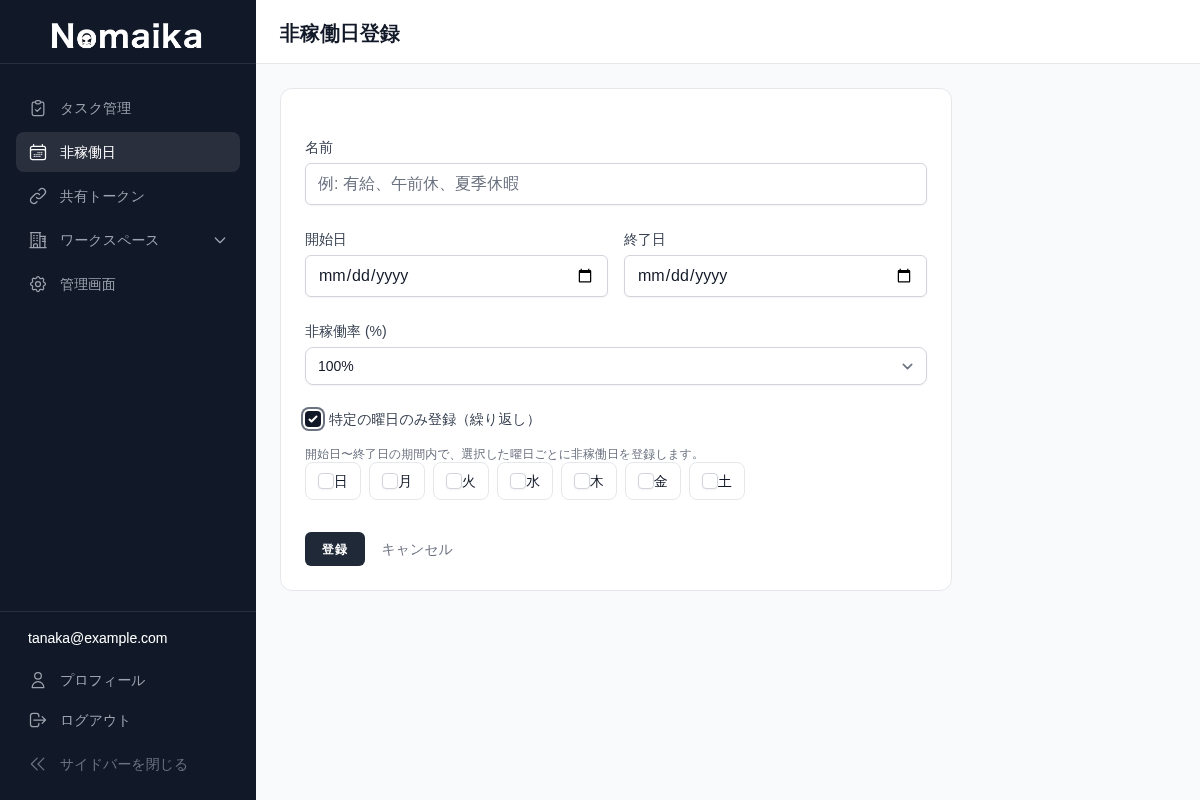
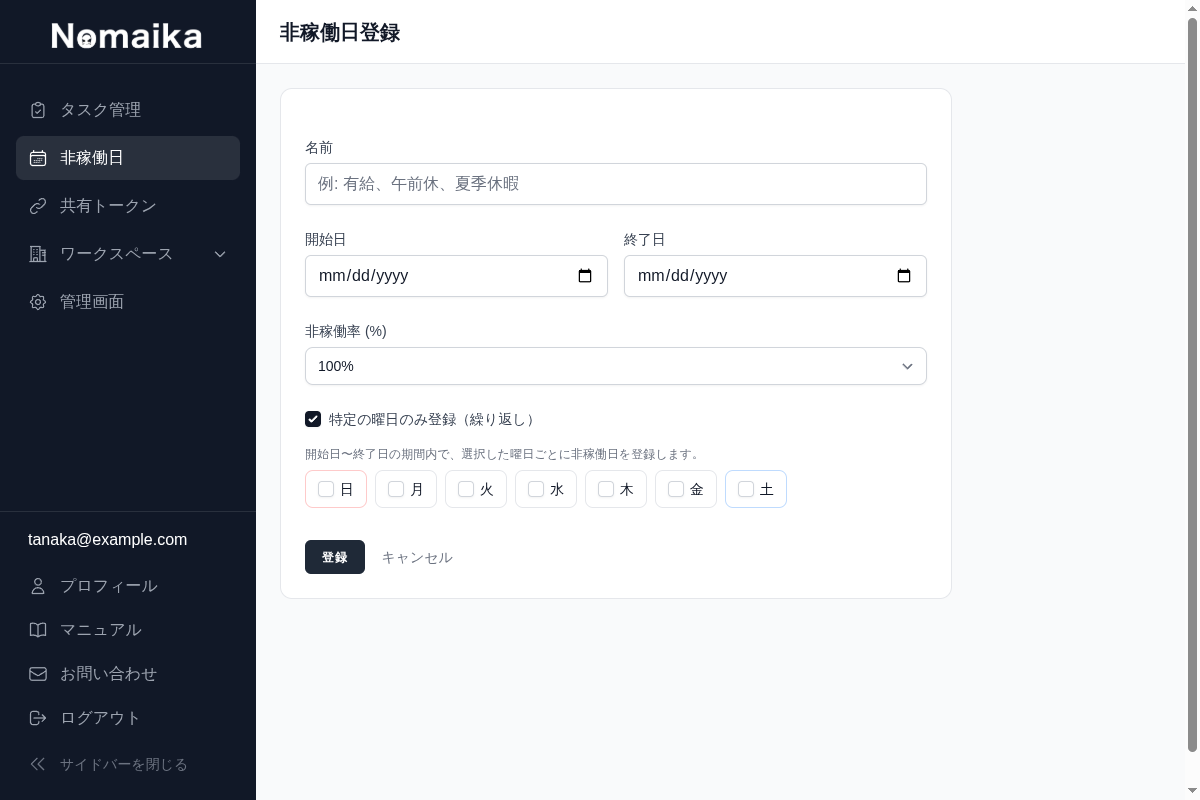
非稼働日画面のUI変更に合わせて本文とスクショを更新
タブのメイン部移動、月ナビゲータの年月セレクトボックス化、
セル幅縮小などを反映。

diff --git a/docs/guide/non-working-days.md b/docs/guide/non-working-days.md
@@ -14,7 +14,7 @@
 - **ガントチャート**: タスク管理と同様の横軸＝日付の表形式
 - **カレンダー**: 月カレンダー形式で非稼働日を色付き表示
 
-画面上部のボタンで切り替えできます。
+画面上部のタブで切り替えできます。月の切り替えは「**←**」「**→**」ボタン、または年・月のセレクトボックスから行えます。
 
 ![ガントチャート表示](/images/nwd-gantt.png)
 
